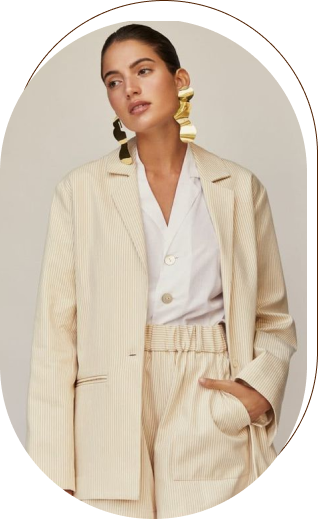
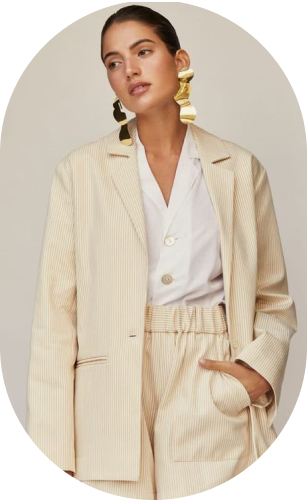
Add files via upload

diff --git a/lesson_7/css/style.css b/lesson_7/css/style.css
@@ -215,16 +215,34 @@ body {
     padding-bottom: 35px;
 }
 
+.img-wrap {
+    border: 1px solid #000;
+    border-radius: 90px;
+    width: 180px;
+    height: 329px;
+    display: inline-block;
+    margin-right: 30px;
+}
+
 .woman {
-    margin-right: 20px;
     font-size: 0;
     vertical-align: middle;
+    margin: 11px 0px 0px -11px;
 
 }
 
+.img-wrap-big {
+    border: 1px solid #000;
+    border-radius: 155px;
+    width: 308px;
+    height: 506px;
+    display: inline-block;
+}
 
 .woman-big {
     vertical-align: middle;
+    margin: 20px 0px 0px -13px;
+
 }
 
 /* ----------------------------clothing------------------------------------- */
@@ -264,8 +282,7 @@ body {
 }
 
 .clothing-block-container {
-        padding: 0 5px 0 15px;
-
+    padding: 0 5px 0 15px;
 }
 
 .clothing-subtitle {

diff --git a/lesson_7/index.html b/lesson_7/index.html
@@ -54,9 +54,15 @@
 
         <div class="jewels-images">
 
-          <img class="woman" src="img/woman.png" alt="woman with flower">
+          <div class="img-wrap">
 
-          <img class="woman-big" src="img/woman-big.png" alt="woman">
+            <img class="woman" src="img/woman.png" alt="woman with flower">
+          </div>
+
+          <div class="img-wrap-big">
+
+            <img class="woman-big" src="img/woman-big.png" alt="woman">
+          </div>
         </div>
       </div>
 
